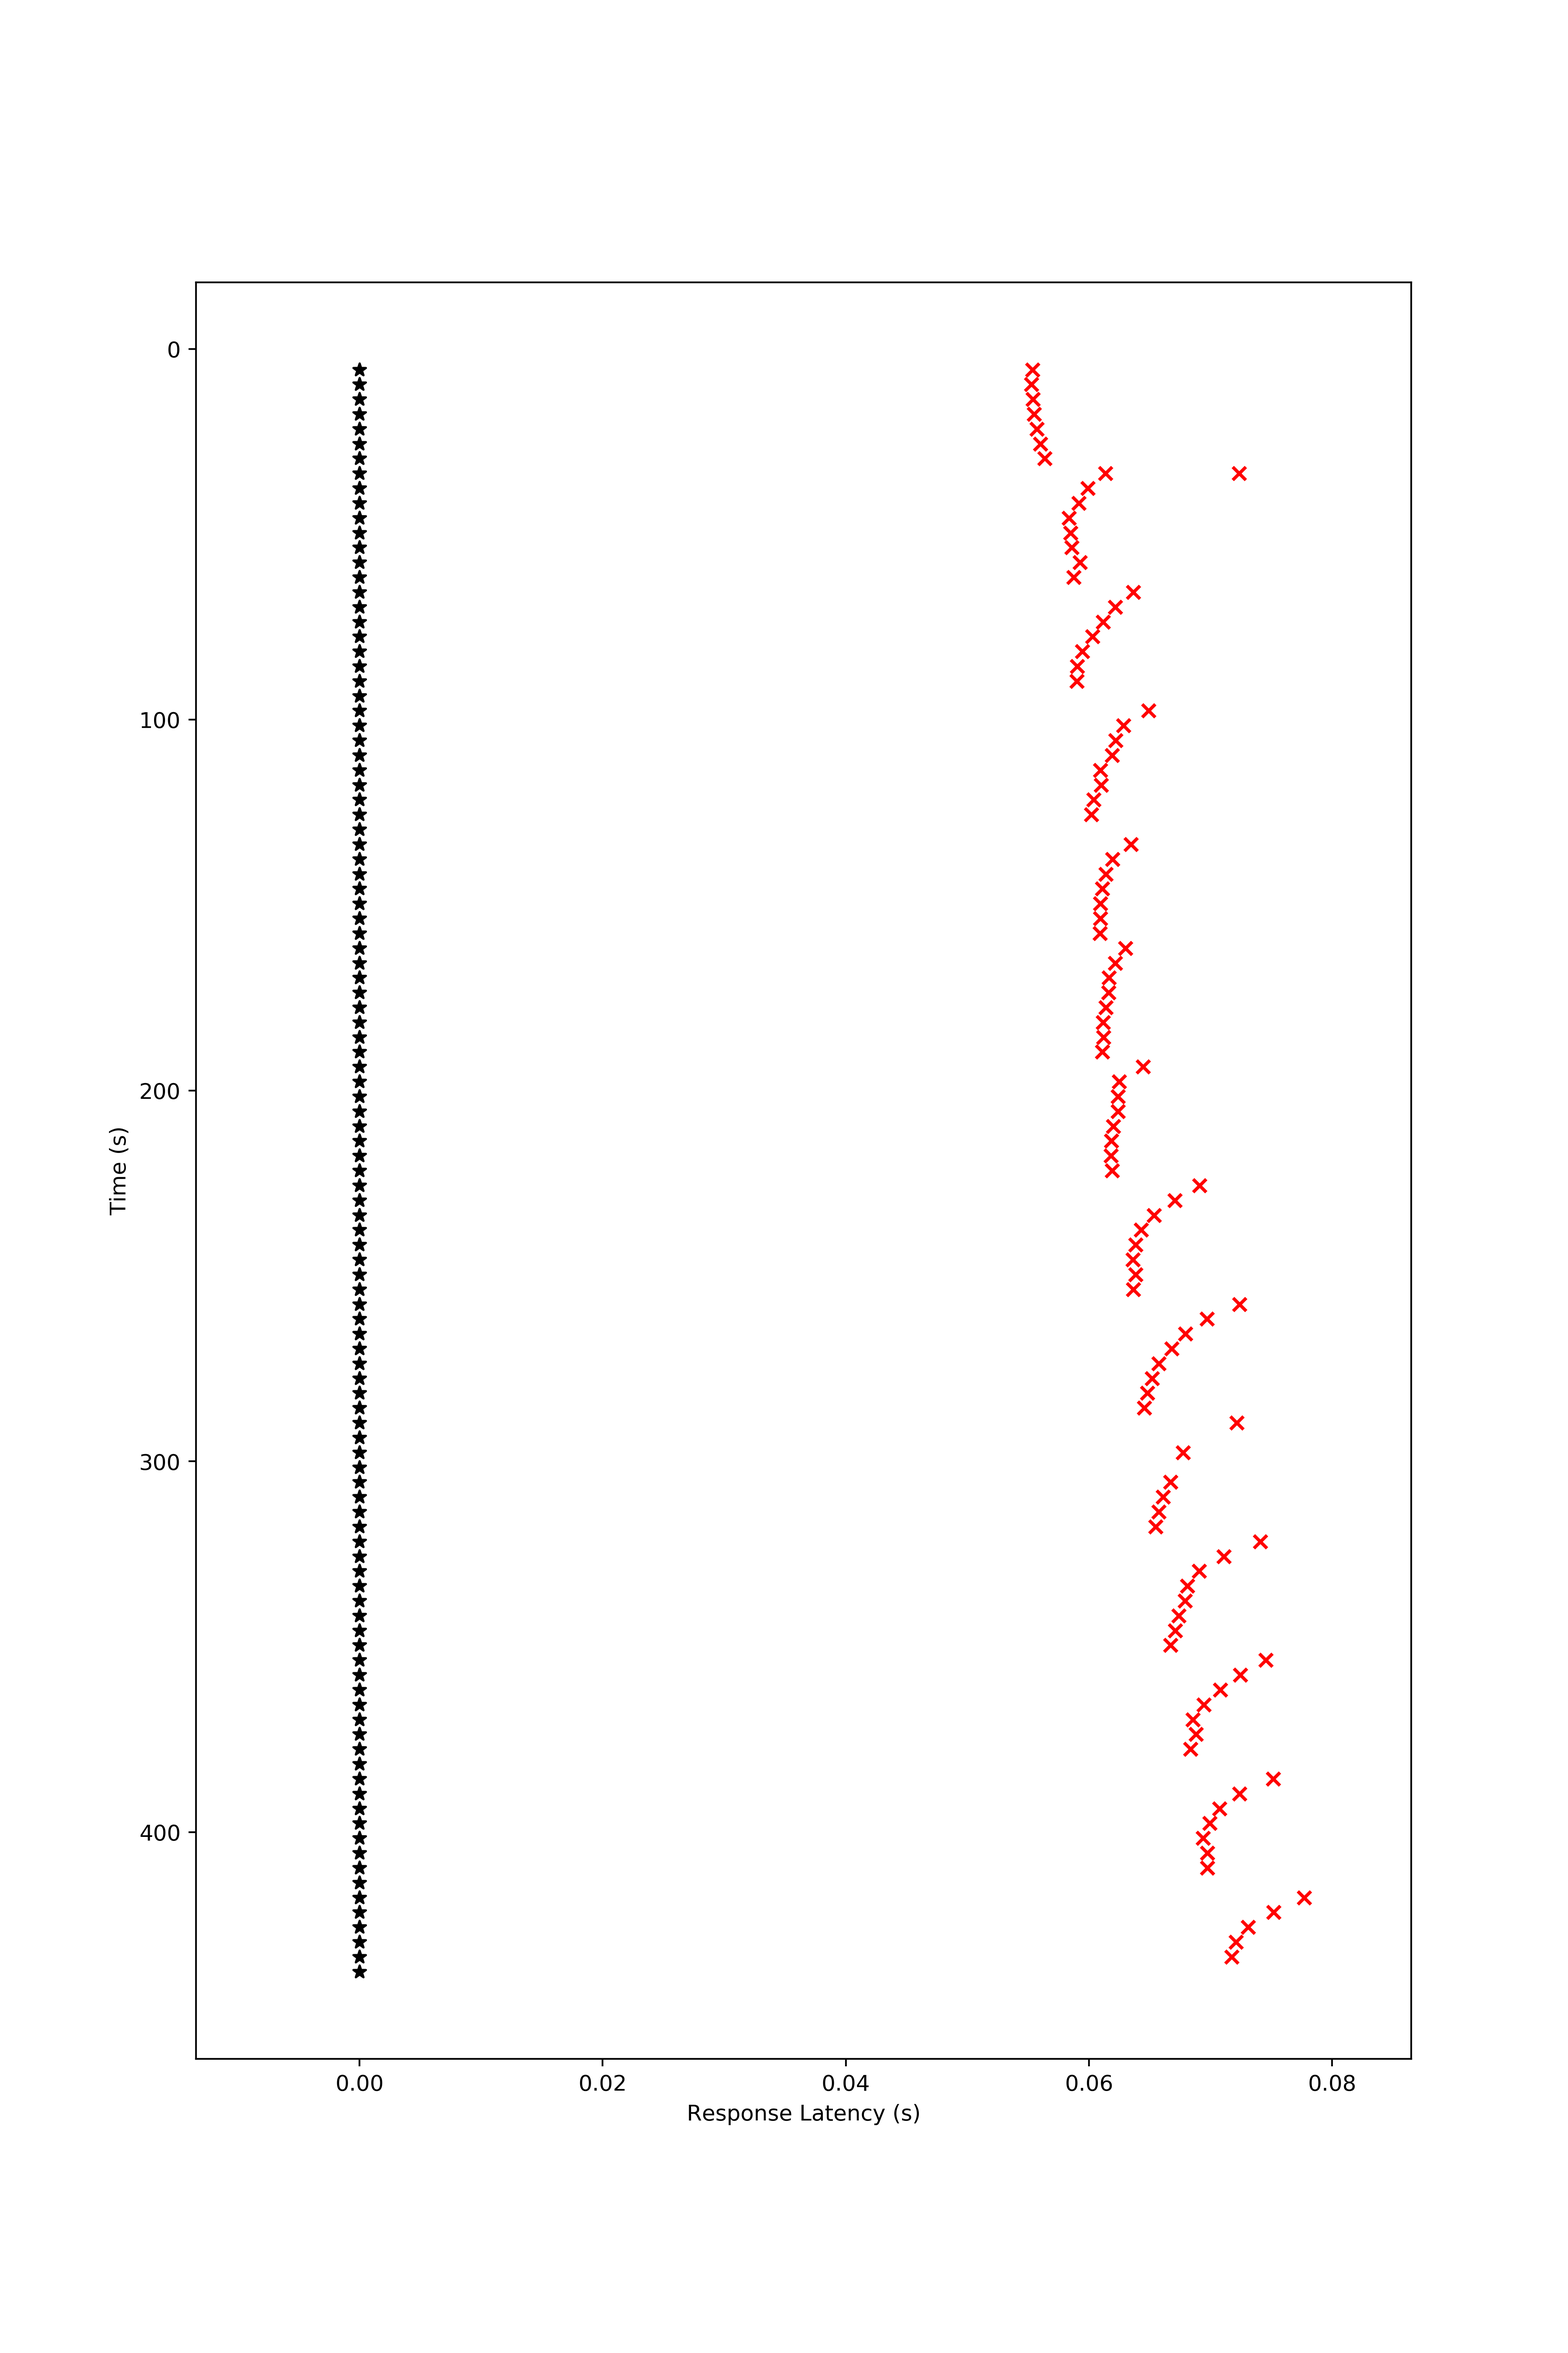
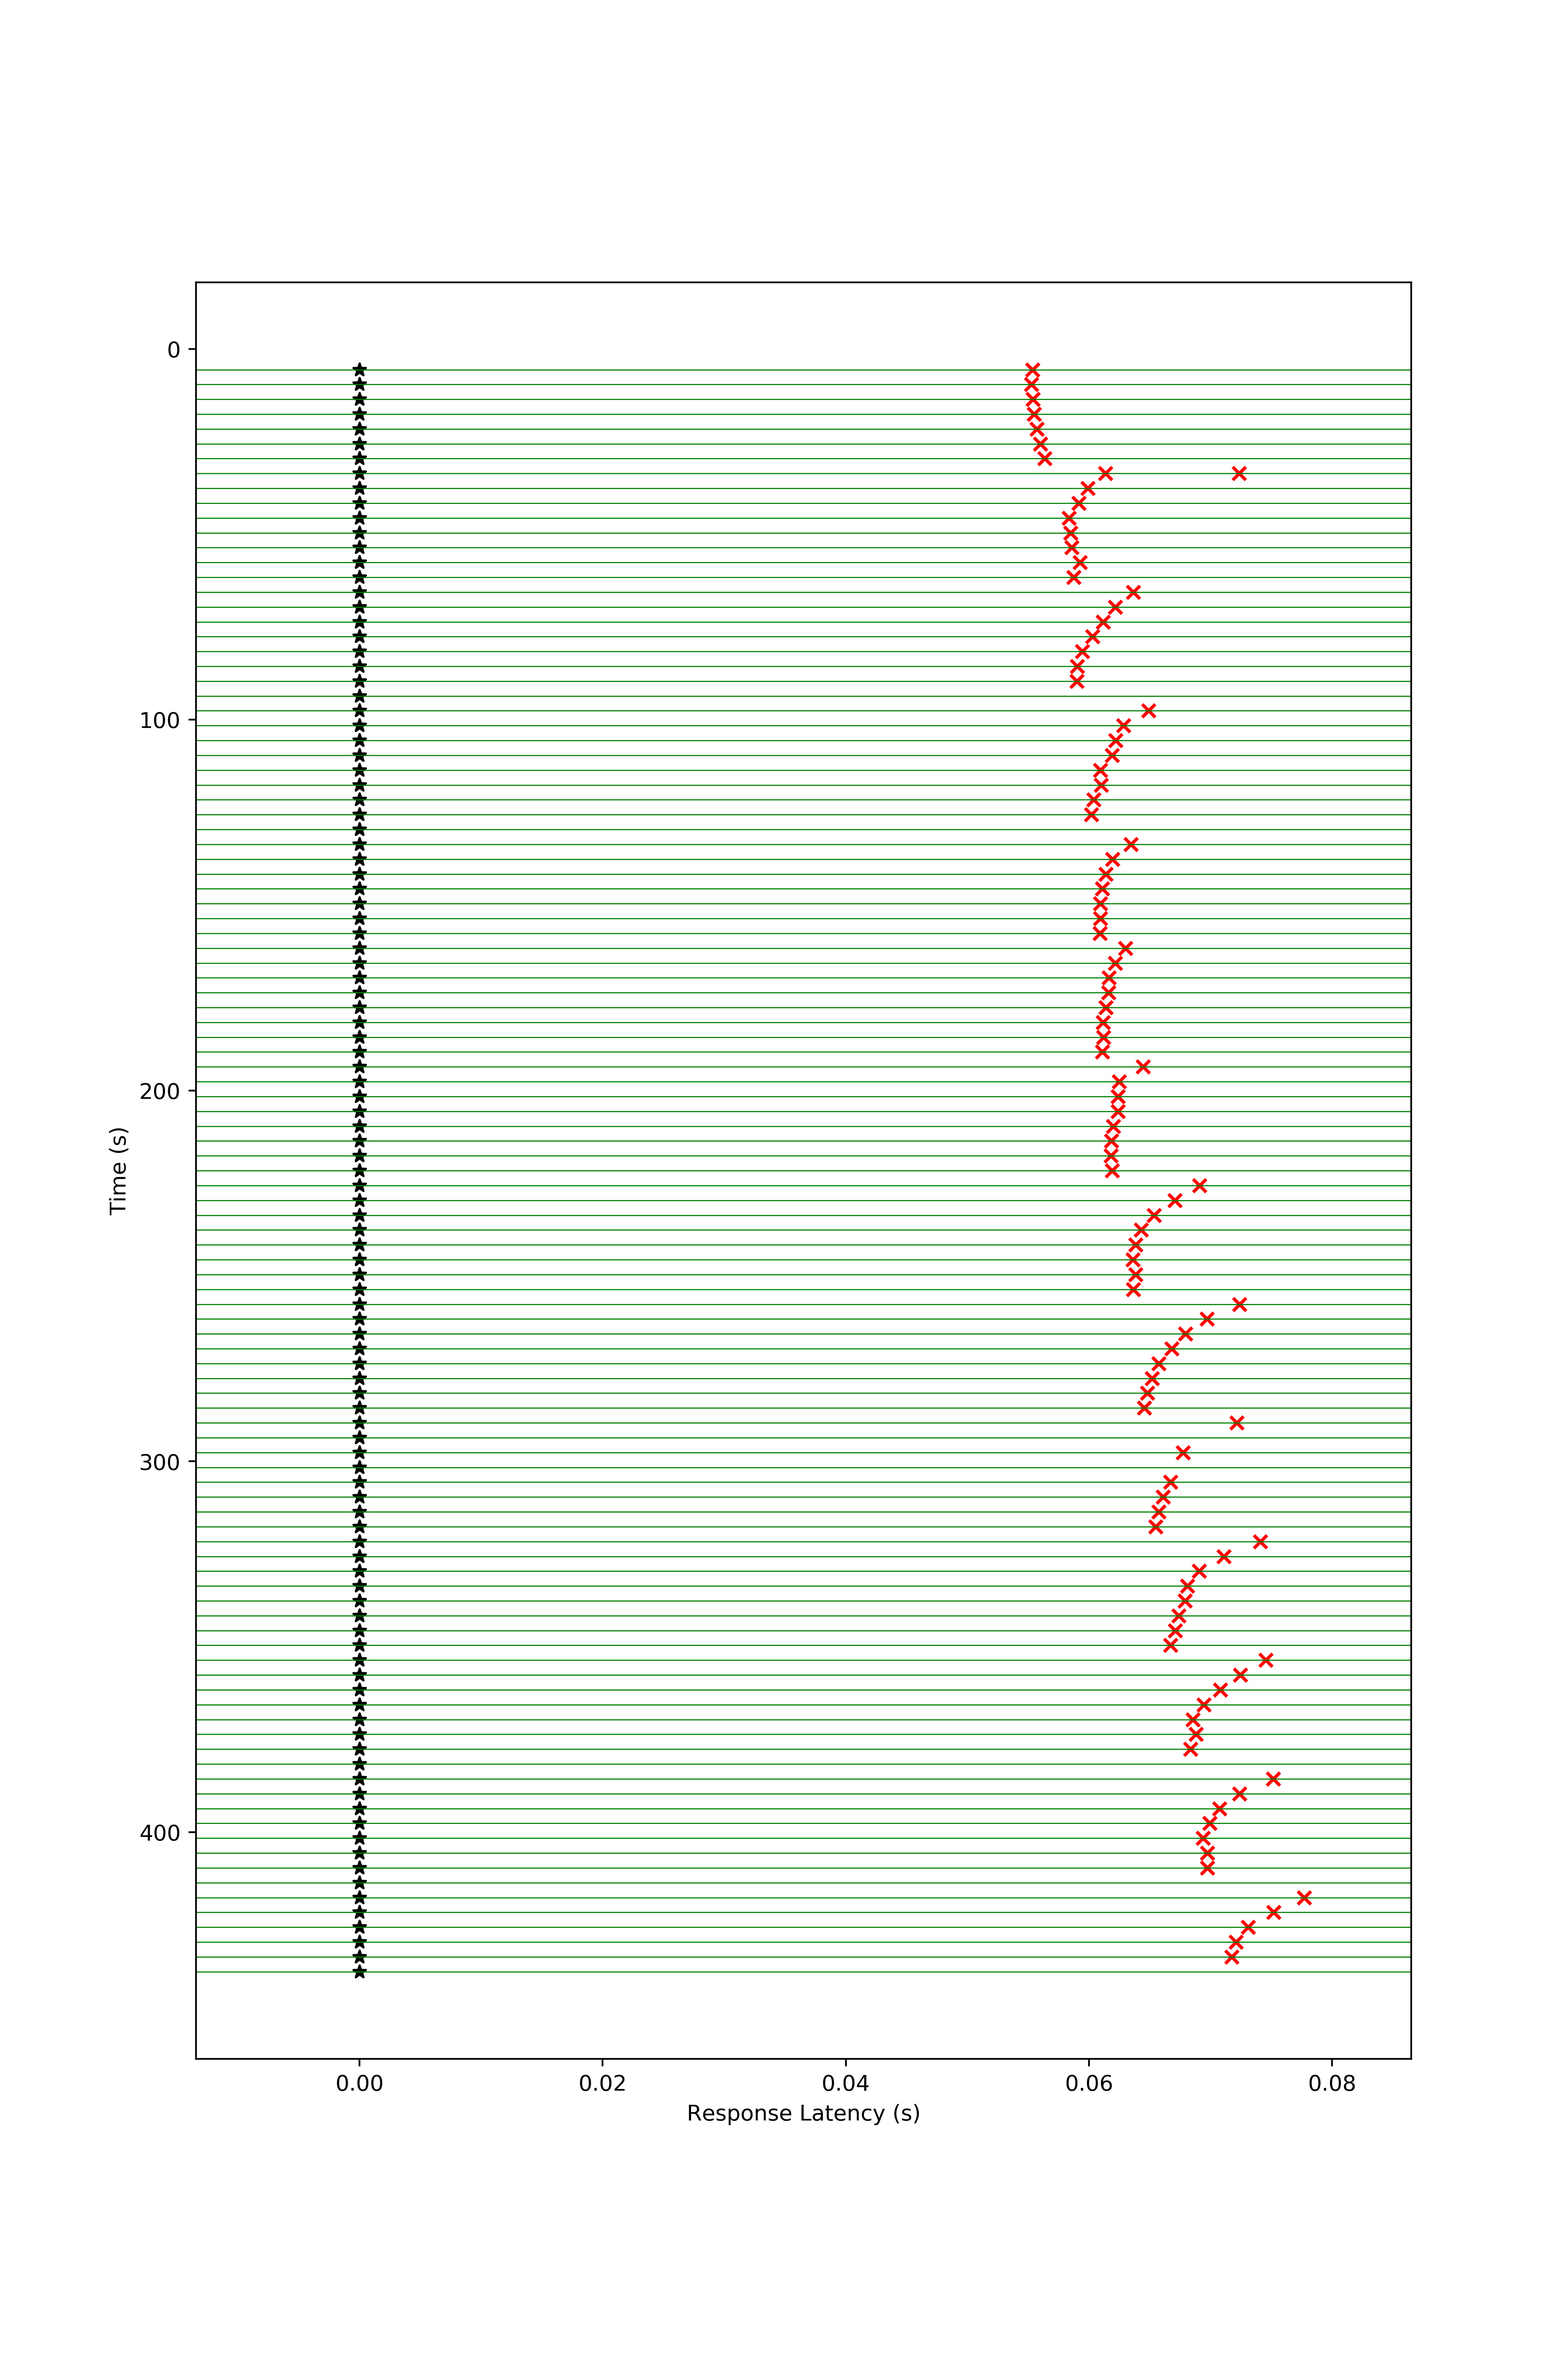
* Spike importer now also stores raw data * Added horizontal lines to falling leaf plot until raw signal is * available

diff --git a/code/plotting/falling_leaf.py b/code/plotting/falling_leaf.py
@@ -14,9 +14,12 @@ class FallingLeafPlot:
 	def plot(self, regular_stimuli, action_potentials, raw_signal = None):
 		fig = plt.figure(figsize = (self.width, self.height))
 	
+		# TODO plot raw signal
+	
 		# plot the regular stimuli for reference
 		for regstim in regular_stimuli:
 			plt.scatter(x = 0, y = regstim.getTimepoint(), marker = "*", color = "k")
+			plt.gca().axhline(y = regstim.getTimepoint(), color = "g", linewidth = ".5")
 			
 		# then, the actpots that presumably belong to this track
 		for actpot in action_potentials:

diff --git a/code/importers/spike_importer.py b/code/importers/spike_importer.py
@@ -36,6 +36,9 @@ class SpikeImporter:
 	def getRawDataframe(self):
 		return self.df
 			
+	def getRawSignal(self):
+		return self.df[:][self.signal_channel].values
+			
 	# return a list of action potentials for the gap times
 	# calculates the distance to the previous electrical stimuli
 	# calculates the distance to the previous force stimulus
